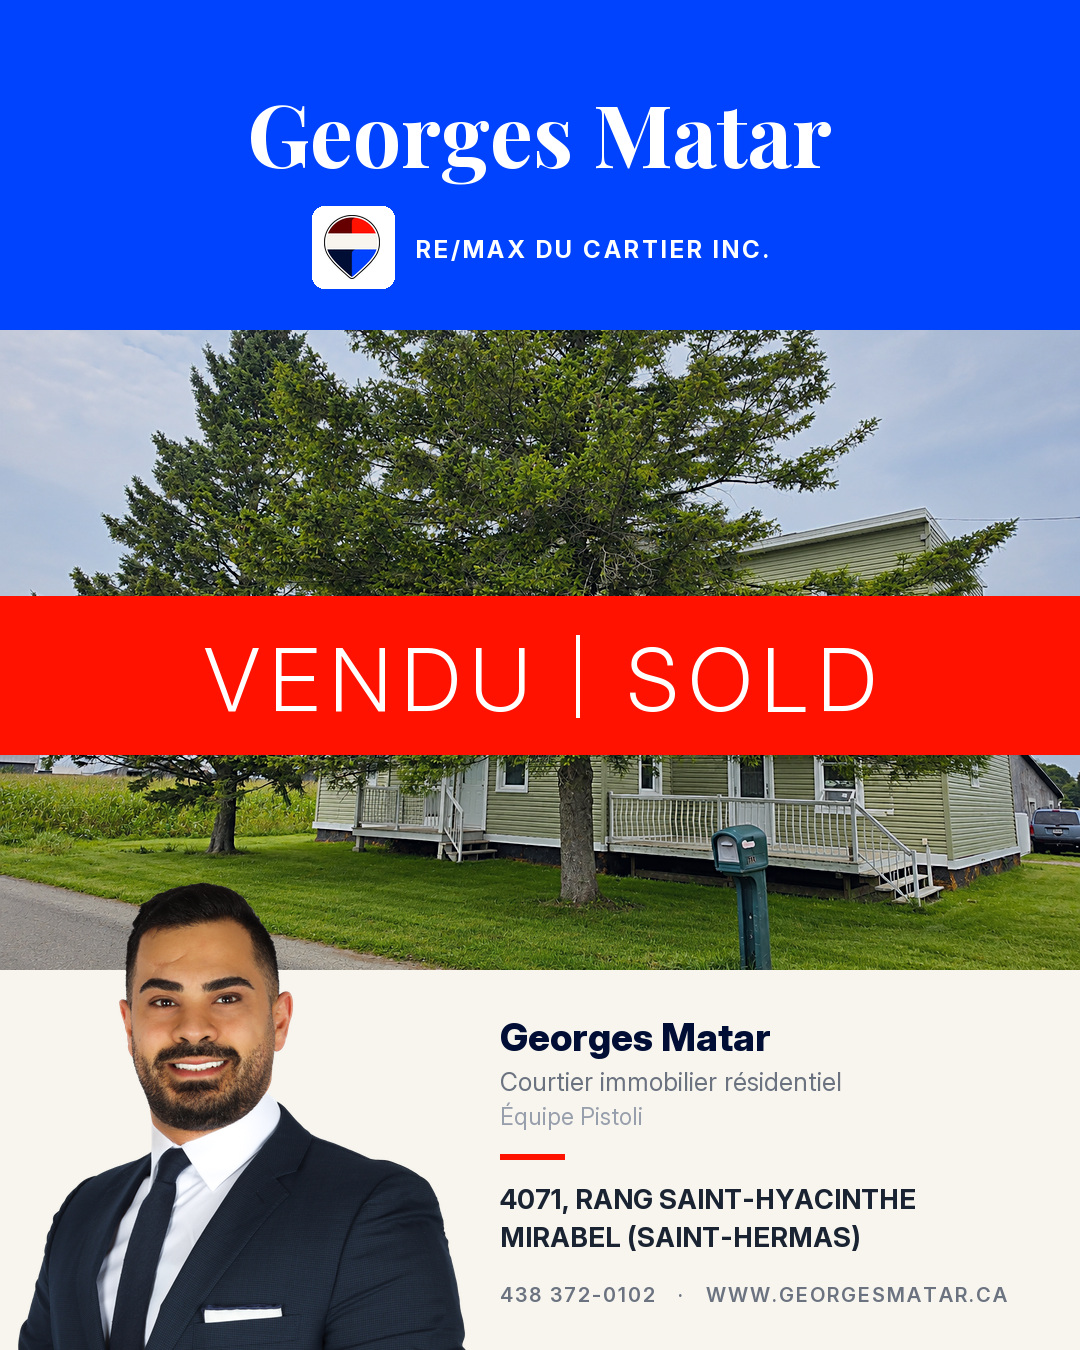
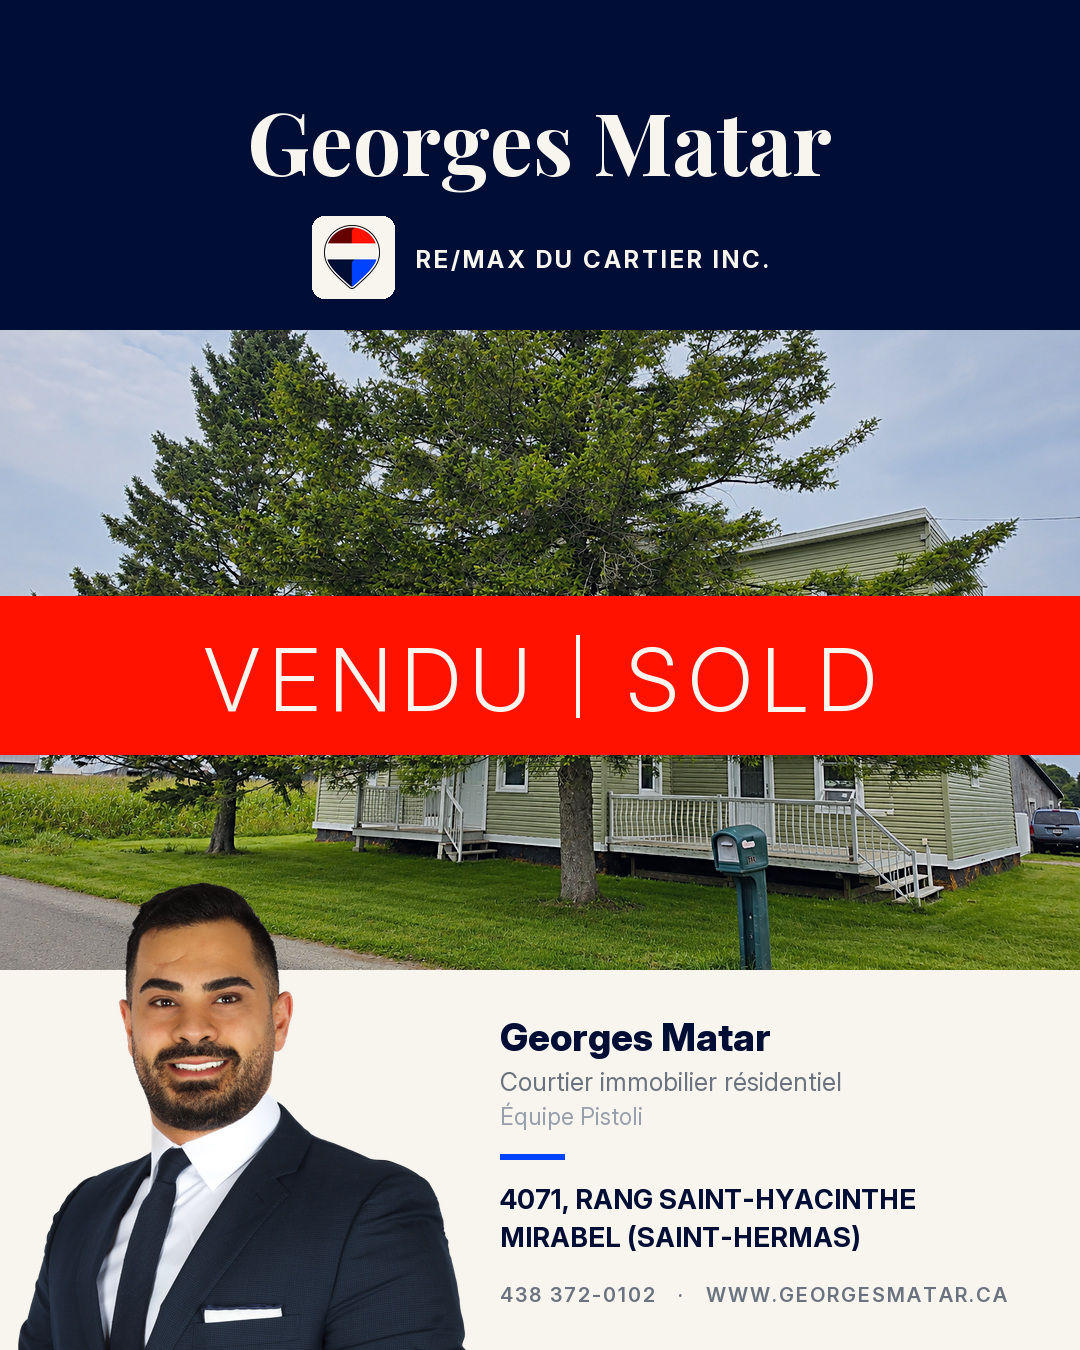
refactor: la publication VENDU suit la hierarchie de la charte du Cartier
La charte RE/MAX DU CARTIER distingue deux principales, navy #000E35 et
creme #F7F5EE, de trois secondaires, bleu #0043FF, bordeaux #600000 et rouge
#FF1200. La version precedente prenait une secondaire, le bleu, pour en faire
le plus grand aplat de l image: l ordre etait inverse.

Desormais les grands aplats sont navy et creme, et les secondaires
accentuent. Le bandeau reste rouge, seule entorse assumee: c est lui qui dit
VENDU. Le filet au dessus de l adresse passe au bleu, la seule secondaire qui
ne servait nulle part ailleurs que dans le ballon.

Le texte sur fond sombre passe du blanc pur au creme de la charte.

La palette et son rang sont notes dans le README, pour les prochains visuels.

diff --git a/carrousel-instagram/vendu/generer-post-vendu.py b/carrousel-instagram/vendu/generer-post-vendu.py
@@ -5,17 +5,20 @@
     python "carrousel-instagram/vendu/generer-post-vendu.py" mirabel   une seule
 
 Le visuel courant du marche montrealais, monte comme une pancarte RE/MAX:
-trois aplats, les trois couleurs du ballon, et rien d autre.
+trois aplats et rien d autre.
 
-1. l en-tete bleu, le nom du courtier et la pastille de l agence
+1. l en-tete navy, le nom du courtier et la pastille de l agence
 2. la facade en plein cadre, barree du bandeau rouge VENDU | SOLD
 3. le pied creme: le portrait, le titre, l adresse
 
-Le bleu et le rouge ne sont pas choisis a l oeil: ils sont echantillonnes
-dans `static/images/remax-logo.png`, comme le fait deja le generateur des
-carrousels. Le ballon donne #0043ff et #ff1200, et ce bleu est exactement le
-`--blue` de `static/css/main.css`: la pancarte, le site et le profil parlent
-la meme langue. Playfair pour le nom, Inter pour le reste.
+Les couleurs suivent la charte RE/MAX DU CARTIER, et surtout sa hierarchie.
+Navy #000E35 et creme #F7F5EE sont les principales: ce sont elles qui portent
+les grands aplats. Bleu #0043FF, bordeaux #600000 et rouge #FF1200 sont
+secondaires: elles n accentuent. Le bandeau rouge est la seule exception a
+cette regle, et c est voulu: c est lui qui dit VENDU, et il doit se lire dans
+une vignette de fil.
+
+Playfair pour le nom, Inter pour le reste, comme sur le site.
 
 Pas de prix, pas de caracteristiques. Ce n est pas une annonce, c est une
 preuve, et elle doit se lire en une seconde dans un fil.
@@ -40,17 +43,19 @@ MARGE = 72
 ENTETE_H = 330                          # le bloc navy du haut
 PHOTO_Y0, PHOTO_Y1 = 330, 970           # la bande de photo, pleine largeur
 
-# ------------------------------------- palette, echantillonnee dans le logo
-# remax-logo.png donne ces deux valeurs au pixel pres. Le bleu est aussi le
-# --blue de main.css: le site a ete construit sur le meme echantillon.
-BLEU = (0, 67, 255)                     # #0043ff, le ballon et --blue
-ROUGE = (255, 18, 0)                    # #ff1200, le ballon
-NAVY = (0, 14, 53)                      # #000e35, le fonce du logo
-CREME = (247, 245, 238)                 # --off-white du site
-TEXTE = (26, 35, 50)                    # --text
-GRIS = (107, 114, 128)                  # --gray
+# ------------------------------------------ palette RE/MAX DU CARTIER
+# La charte distingue deux principales et trois secondaires, et cet ordre
+# se voit: les grands aplats sont navy et creme, les secondaires ne servent
+# qu a accentuer. Le bandeau rouge est la seule exception, et c est voulu:
+# c est lui qui dit VENDU.
+NAVY = (0, 14, 53)                      # #000E35   principale, l en-tete
+CREME = (247, 245, 238)                 # #F7F5EE   principale, le pied
+BLEU = (0, 67, 255)                     # #0043FF   secondaire, le filet
+ROUGE = (255, 18, 0)                    # #FF1200   secondaire, le bandeau
+BORDEAUX = (96, 0, 0)                   # #600000   secondaire, non utilise ici
+
+GRIS = (107, 114, 128)                  # --gray du site, pour le titre
 GRIS_PALE = (152, 159, 172)
-BLANC = (255, 255, 255)
 
 COURTIER = "Georges Matar"
 TITRE = "Courtier immobilier résidentiel"
@@ -81,15 +86,16 @@ PROPRIETES = [
 
 
 def entete(c):
-    """L en-tete bleu: le nom du courtier, puis la pastille de l agence.
+    """L en-tete navy: le nom du courtier, puis la pastille de l agence.
 
-    Le ballon est pose sur une pastille blanche a coins arrondis, comme le
-    fait le site dans son eyebrow: sans elle, la moitie bleue du ballon se
-    fondrait dans le bleu du fond.
+    Navy et creme, les deux principales de la charte, et rien d autre. Le
+    ballon est pose sur une pastille creme a coins arrondis, comme le fait le
+    site dans son eyebrow: sans elle, la moitie foncee du ballon se fondrait
+    dans le fond.
     """
     d = ImageDraw.Draw(c)
-    d.rectangle([0, 0, W, ENTETE_H], fill=BLEU + (255,))
-    d.text((W // 2, 74), COURTIER, font=playfair(86, 700), fill=BLANC,
+    d.rectangle([0, 0, W, ENTETE_H], fill=NAVY + (255,))
+    d.text((W // 2, 82), COURTIER, font=playfair(86, 700), fill=CREME,
            anchor="ma")
 
     cote, pad = 82, 9
@@ -99,10 +105,10 @@ def entete(c):
     lbl = "RE/MAX DU CARTIER INC."
     total = cote + 22 + tw(d, lbl, fl, 3)
     x = (W - total) / 2
-    y = 206
-    d.rounded_rectangle([x, y, x + cote, y + cote], 12, fill=BLANC + (255,))
+    y = 216
+    d.rounded_rectangle([x, y, x + cote, y + cote], 12, fill=CREME + (255,))
     logo(c, lh, (x + (cote - lw) / 2, y + pad), white=False)
-    tracked(d, (x + cote + 22, y + cote / 2 - 13), lbl, fl, BLANC, 3)
+    tracked(d, (x + cote + 22, y + cote / 2 - 13), lbl, fl, CREME, 3)
 
 
 def bande_photo(c, prop):
@@ -140,10 +146,10 @@ def bandeau_vendu(c, prop):
     ecart, filet = 46, 3
     x = (W - (wv + ecart + filet + ecart + ws)) / 2
     y = haut + (bas - haut - 88) / 2 - 6
-    tracked(d, (x, y), "VENDU", f, BLANC, track)
+    tracked(d, (x, y), "VENDU", f, CREME, track)
     d.rectangle([x + wv + ecart, y + 10, x + wv + ecart + filet, y + 92],
-                fill=BLANC + (200,))
-    tracked(d, (x + wv + ecart + filet + ecart, y), "SOLD", f, BLANC, track)
+                fill=CREME + (200,))
+    tracked(d, (x + wv + ecart + filet + ecart, y), "SOLD", f, CREME, track)
 
 
 def pied(c, prop):
@@ -172,12 +178,15 @@ def pied(c, prop):
     d.text((x, y + 2), EQUIPE, font=inter(23, 400), fill=GRIS_PALE)
     y += 38
 
+    # le filet d accent est bleu et non rouge: le rouge est deja pris par le
+    # bandeau, et le bleu est la seule secondaire qui ne sert nulle part
+    # ailleurs que dans le ballon
     y = max(y + 16, 1148)
-    d.rectangle([x, y, x + 64, y + 5], fill=ROUGE + (255,))
+    d.rectangle([x, y, x + 64, y + 5], fill=BLEU + (255,))
     y += 28
     for ln in prop["adresse"]:
         for bout in wrap(d, ln, inter(27, 700), dispo):
-            d.text((x, y), bout, font=inter(27, 700), fill=TEXTE)
+            d.text((x, y), bout, font=inter(27, 700), fill=NAVY)
             y += 38
 
     # la ligne de coordonnees se pose sous l adresse, jamais dessus, et se

diff --git a/carrousel-instagram/vendu/README.md b/carrousel-instagram/vendu/README.md
@@ -15,41 +15,46 @@ les gens qui ne suivent pas encore le compte.
 ## La publication VENDU | SOLD
 
 Le visuel courant du marché montréalais, monté comme une pancarte RE/MAX:
-trois aplats, les trois couleurs du ballon, et rien d'autre.
+trois aplats et rien d'autre.
 
-1. **L'en-tête bleu**: le nom du courtier en Playfair blanc, puis le ballon
-   sur sa pastille blanche et RE/MAX DU CARTIER INC.
+1. **L'en-tête navy**: le nom du courtier en Playfair crème, puis le ballon
+   sur sa pastille crème et RE/MAX DU CARTIER INC.
 2. **La façade** en plein cadre, barrée du **bandeau rouge VENDU | SOLD**.
 3. **Le pied crème**: le portrait, le titre, l'adresse.
 
 Pas de prix, pas de caractéristiques. Ce n'est pas une annonce, c'est une
 preuve, et elle doit se lire en une seconde dans un fil.
 
-### Les couleurs
+### La charte RE/MAX DU CARTIER
 
-Elles ne sont pas choisies à l'oeil: elles sont échantillonnées dans
-`static/images/remax-logo.png`, comme le fait déjà le générateur des
-carrousels. Le ballon donne deux valeurs, et son bleu est exactement le
-`--blue` de `static/css/main.css`: la pancarte, le site et le profil parlent
-la même langue.
+Ce qui compte ici n'est pas seulement la liste des couleurs, c'est leur
+hiérarchie. Deux principales, trois secondaires, et ça se voit: les grands
+aplats sont navy et crème, les secondaires n'accentuent.
 
-| Rôle | Valeur | D'où elle vient |
-|------|--------|-----------------|
-| En-tête | `#0043ff` | le bleu du ballon, et le `--blue` du site |
-| Bandeau VENDU, filet d'accent | `#ff1200` | le rouge du ballon |
-| Fond du pied | `#F7F5EE` | `--off-white` du site |
-| Adresse, texte courant | `#1a2332` / `#6b7280` | `--text` et `--gray` du site |
+| Couleur | Rang | Où elle sert sur la publication |
+|---------|------|----------------------------------|
+| `#000E35` navy | principale | l'en-tête, le nom, l'adresse |
+| `#F7F5EE` crème | principale | le pied, tout le texte sur navy et sur rouge |
+| `#FF1200` rouge | secondaire | le bandeau VENDU \| SOLD |
+| `#0043FF` bleu | secondaire | le filet d'accent au dessus de l'adresse |
+| `#600000` bordeaux | secondaire | pas utilisé ici, gardé dans la palette |
+
+Le bandeau rouge est la seule entorse à la règle: une secondaire sur une
+grande surface. C'est assumé, c'est lui qui dit VENDU, et il doit se lire
+dans une vignette de fil.
 
 Trois précisions de fabrication:
 
-- Le ballon est posé sur une **pastille blanche à coins arrondis**, comme le
-  fait le site dans son eyebrow. Sans elle, la moitié bleue du ballon se
-  fondrait dans le bleu du fond.
-- Le pied reste clair alors que l'en-tête est bleu: le portrait est un
+- Le ballon est posé sur une **pastille crème à coins arrondis**, comme le
+  fait le site dans son eyebrow. Sans elle, la moitié foncée du ballon se
+  fondrait dans le navy.
+- Le pied reste clair alors que l'en-tête est navy: le portrait est un
   découpé en complet sombre, il disparaîtrait sur un fond foncé.
 - Le bandeau est un **aplat plein**, sans filet ni transparence. C'est le
-  seul traitement qui reste lisible dans une vignette de fil, et c'est le
-  code couleur que tout le monde associe déjà à RE/MAX.
+  seul traitement qui reste lisible dans une vignette de fil.
+
+Le texte sur fond sombre est en crème `#F7F5EE` et non en blanc pur: le blanc
+n'est pas dans la charte.
 
 ```
 python "carrousel-instagram/vendu/generer-post-vendu.py"           les deux
